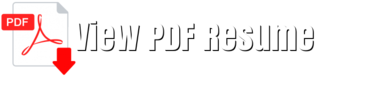
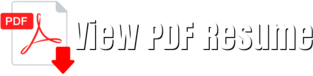
Updated resume img, added links to hero sec

Changed region(s): [[0.0, 0.0, 1.0, 0.9737]]

diff --git a/index.html b/index.html
@@ -50,18 +50,45 @@
   <div class="hero_wrapper">
     <div class="container">
       <div class="hero_section">
-        <div class="row vertical align">
-          <div class="col-lg-6 col-sm-5">
+        <div class="row vertical-align">
+          <div class="col-lg-6 col-sm-5 col-xs-12">
 		<div class="text-center">
 		    <div class="hidden-lg hidden-md"><br/></div> <!--hidden on desktop-->
 		    <img src="img/head_shot.png" class="zoomIn wow animated" alt="" />
-		    <div class="hidden-sm hidden-xs"><br/><br/><br/></div> <!--hidden on mobile-->
+		    <div class="hidden-xs"><br/><br/><br/></div> <!--hidden on mobile-->
 		</div>
           </div>
-          <div class="col-lg-6 col-sm-7">
+          <div class="col-lg-6 col-sm-7 col-xs-12">
 	      <div class="top_left_cont zoomIn wow animated"> 
               <h2>Developer | Engineer</h2>
               <h3>Background in mechanics and system optimization</h3>
+	      <div class="hidden-xs hidden-sm"><br/></div> <!--hidden on desktop-->
+		<div class="row"> <!-- contact icons -->
+		    <div class="col-xs-2 col-xs-offset-1"><h2><a target="_blank" href="mailto:tyler@t-england.com"><i class="fas fa-envelope-square"></i></a></h2>
+		    </div>
+		    <div class="col-xs-2"><h2><a target="_blank" href="tel:13527772277"><i class="fas fa-phone-square"></i></a></h2>
+		    </div>
+		    <div class="col-xs-2"><h2><a target="_blank" href="https://www.linkedin.com/in/tylerengland"><i class="fab fa-linkedin"></i></a></h2>
+		    </div>
+		    <div class="col-xs-2"><h2><a target="_blank" href="https://github.com/tyler-england"><i class="fab fa-github-square"></i></a></h2>
+		    </div>
+		    <div class="col-xs-2"><h2><a target="_blank" href="https://www.reddit.com/user/StPeteTy"><i class="fab fa-reddit-square"></i></a></h2>
+		    </div>
+		</div>
+<!-- only for 4	      <div class="row"> <!-- contact icons ~~>
+		<div class="col-xs-3">
+		  <h2><i class="fas fa-envelope-square"></i></h2>
+		</div>
+		<div class="col-xs-3 text-center">
+		  <h2><i class="fas fa-phone-square"></i></h2>
+		</div>
+		<div class="col-xs-3 text-center">
+		  <h2><i class="fab fa-linkedin"></i></h2>
+		</div>
+		<div class="col-xs-3 text-center">
+		  <h2><i class="fab fa-github-square"></i></h2>
+		</div>
+	      </div> -->
               <!-- <a href="#service" class="read_more2">Read more</a> --> </div>	
 	 </div>
         </div>
@@ -330,18 +357,16 @@
 <!--page section-->
 <div class="client_logos"><!--client_logos-->
   <div class="container">
-   <h2>Resume/CV</h2><br/>
-    <ul class="fadeInRight animated wow">
-      <li><a href="England_Resume.pdf"><img src="img/resume.png" alt=""></a></li>
+   <h2>Resume/CV</h2>
+<!--    <ul class="fadeInRight animated wow"> exp-->
+      <a class="fadeInRight animated wow" href="England_Resume.pdf"><img src="img/resume.png" alt=""></a>
 <!--  <li><a href="javascript:void(0)"><img src="img/client_logo2.png" alt=""></a></li>
       <li><a href="javascript:void(0)"><img src="img/client_logo3.png" alt=""></a></li>
-      <li><a href="javascript:void(0)"><img src="img/client_logo5.png" alt=""></a></li> -->
-    </ul>
+      <li><a href="javascript:void(0)"><img src="img/client_logo5.png" alt=""></a></li> ~->
+    </ul> -->
     <br/>
     <div class="row">
-     <div class="col-lg-3">
-     </div>
-     <div class="col-lg-6">
+     <div class="col-md-7 col-centered">
       <div class=" delay-01s animated fadeInDown wow animated">
         <p class="white">
 	 <b><u>EDUCATION</u></b><br/>
@@ -355,49 +380,47 @@
 	 May 2015, GPA: 3.3/4.0<br/>
 	 <br/><br/>
 	 <b><u>WORK EXPERIENCE</u></b><br/><br/>
-	 <b>Process Automation Engineer</b> <i>(Barry-Wehmiller): Mar 2019-Present</i><br/>
+	 <b>Process Automation Engineer</b><br/><i>Barry-Wehmiller, Mar 2019-Present</i><br/>
 	 &bull; Developed digital tools for streamlining processes and eliminating work<br/>
 	 &bull; Automated project management and progress tracking<br/>
 	 &bull; Transformed and cleaned data in order to make usable for automation<br/>
 	 &bull; Created database infrastructure and front end GUI<br/>
 	 <br/>
-	 <b>Applications Engineer</b> <i>(Barry-Wehmiller): Jul 2018-Mar 2019</i><br/>
+	 <b>Applications Engineer</b><br/><i>Barry-Wehmiller, Jul 2018-Mar 2019</i><br/>
 	 &bull; Created software to improve personal and departmental efficiency<br/>
 	 &bull; Managed a test lab environment for determining optimal application solutions<br/>
 	 &bull; Analyzed data and tested clients' products for custom machine orders<br/>
 	 &bull; Generated machine layouts and generated formal quotes for customers<br/>
 	 &bull; Supported the sales team with technical guidance<br/>
 	 <br/>
-	 <b>Design Engineer</b> <i>(Barry-Wehmiller): Jul 2016-Jul 2018</i><br/>
+	 <b>Design Engineer</b><br/><i>Barry-Wehmiller, Jul 2016-Jul 2018</i><br/>
 	 &bull; Designed complex industrial filler and labeler systems for food/pharmaceutical products<br/>
 	 &bull; Designed components for Centritech centrifuge systems<br/>
 	 &bull; Overhauled existing designs to meet market price demands<br/>
 	 <br/>
-	 <b>Design Engineer</b> <i>(Bosch): May 2015-Jul 2016</i><br/>
+	 <b>Design Engineer</b><br/><i>Bosch, May 2015-Jul 2016</i><br/>
 	 &bull; Designed comprehensive in-line and rotary packaging machines for various products/containers<br/>
 	 &bull; Created custom designs based on client specifications and material requirements<br/>
 	 &bull; Introduced entirely new assemblies to the product line<br/>
 	 &bull; Collaborated with other engineers and machinists to minimize cost and production time<br/>
 	 <br/>
-	 <b>Mechanical Engineer & Production Manager</b> <i>(SpinCore Technologies, Inc): Nov 2013-May 2015</i><br/>
+	 <b>Mechanical Engineer & Production Manager</b><br/><i>SpinCore Technologies Inc, Nov 2013-May 2015</i><br/>
 	 &bull; Designed, manufactured, and assembled radio-frequency electronic product enclosures<br/>
 	 &bull; Managed quality control assessments, bills of materials, CAD, and vendor coordination<br/>
 	 &bull; Introduced/directed new projects and improved existing products<br/>
 	 &bull; Managed and coordinated customer orders with incoming/outgoing shipments<br/>
 	 &bull; Improved design output by optimizing workflow (reducing/eliminating tedious assembly work)<br/>
 	 <br/>
-	 <b>Resident Assistant</b> <i>(University of Florida): Aug 2013-May 2015</i><br/>
+	 <b>Resident Assistant</b><br/><i>University of Florida, Aug 2013-May 2015</i><br/>
 	 &bull; Managed a large living-learning community of undergraduate engineers<br/>
 	 &bull; Planned/conducted engineering-related programs and activities to help students<br/>
 	 &bull; Maintained order and served as a resource for guiding residents to academic and personal success<br/>
 	 <br/>
-	 <b>Team Member/Food Service</b> <i>(Target): Jul 2009-Nov 2014</i><br/>
+	 <b>Team Member/Food Service</b><br/><i>Target, Jul 2009-Nov 2014</i><br/>
 	 &bull; Prepared and served food with exemplary customer service<br/>
 	 &bull; Monitored storage area temperatures to ensure high food quality<br/>
-	 &bull; Maintained a sanitary workspace in fast-paced environment<br/>
+	 &bull; Maintained a sanitary workspace in fast-paced environment<br/></p>
       </div> <!-- delay -->
-     </div>
-     </div class="col-lg-3">
      </div>
     </div> <!-- row -->
   </div>
@@ -467,6 +490,9 @@
       <div class="contact_section">
         <h2>Contact Me</h2>
       </div>
+
+
+
       <div class="row">
         <div class="col-lg-4 wow fadeInLeft">	
 		 <div class="contact_info">

diff --git a/css/style.css b/css/style.css
@@ -19,6 +19,11 @@ ul {
     margin: 0px;
 }
 
+.col-centered{
+    float: none;
+    margin: 0 auto;
+}
+
 .vertical-align {
     display: flex;
     align-items: center;
@@ -80,7 +85,7 @@ h3 {
     font-family: 'Open Sans', sans-serif;
     font-weight: 600;
     color: #222222;
-    font-size: 18px;
+    font-size: 16px;
     margin: 0 0 5px 0;
 }
 
@@ -99,7 +104,7 @@ h6 {
 
 p {
 /*    line-height: 24px;  */
-    font-size: 16px;
+    font-size: 18px;
     margin: 0;
 }
 p.white {
@@ -246,6 +251,15 @@ p.white {
     padding-top: 50px;
 }
 
+.hero_section i {
+    display: inline-block;
+    text-align: center;
+}
+
+.hero_section a {
+    color: #ffffff;
+}
+
 .white_pad {
     position: relative;
     right: 0px;
@@ -263,10 +277,10 @@ p.white {
 }
 
 .top_left_cont h3 {
-    font-size: 16px;
+    font-size: 20px;
     color: #FFF;
     margin: 0 0 20px 0;
-    text-align: left;
+    text-align: center;
     font-weight: 400;
 }
 
@@ -276,7 +290,7 @@ p.white {
     line-height: 52px;
     margin: 0 0 26px 0;
     font-family: 'Raleway', sans-serif;
-    text-align: left;
+    text-align: center;
 }
 
 .top_left_cont h2 strong {
@@ -644,6 +658,14 @@ img {
     margin-top: 60px;
 }
 
+.client_logos a {
+    padding: 15px 0;
+    display: block;
+    margin-left: auto;
+    margin-right: auto;
+    text-align: center;
+}
+
 .client_logos ul {
     padding: 0;
     margin: 0;
@@ -813,6 +835,12 @@ img {
     color: #ffffff;
     margin: 0 0 50px 0;
     text-transform: uppercase;
+}
+
+.contact_section h3 {
+    font-size: 20px;
+    color: #ffffff;
+    margin: 0;
 }
 
 .contact_block {
